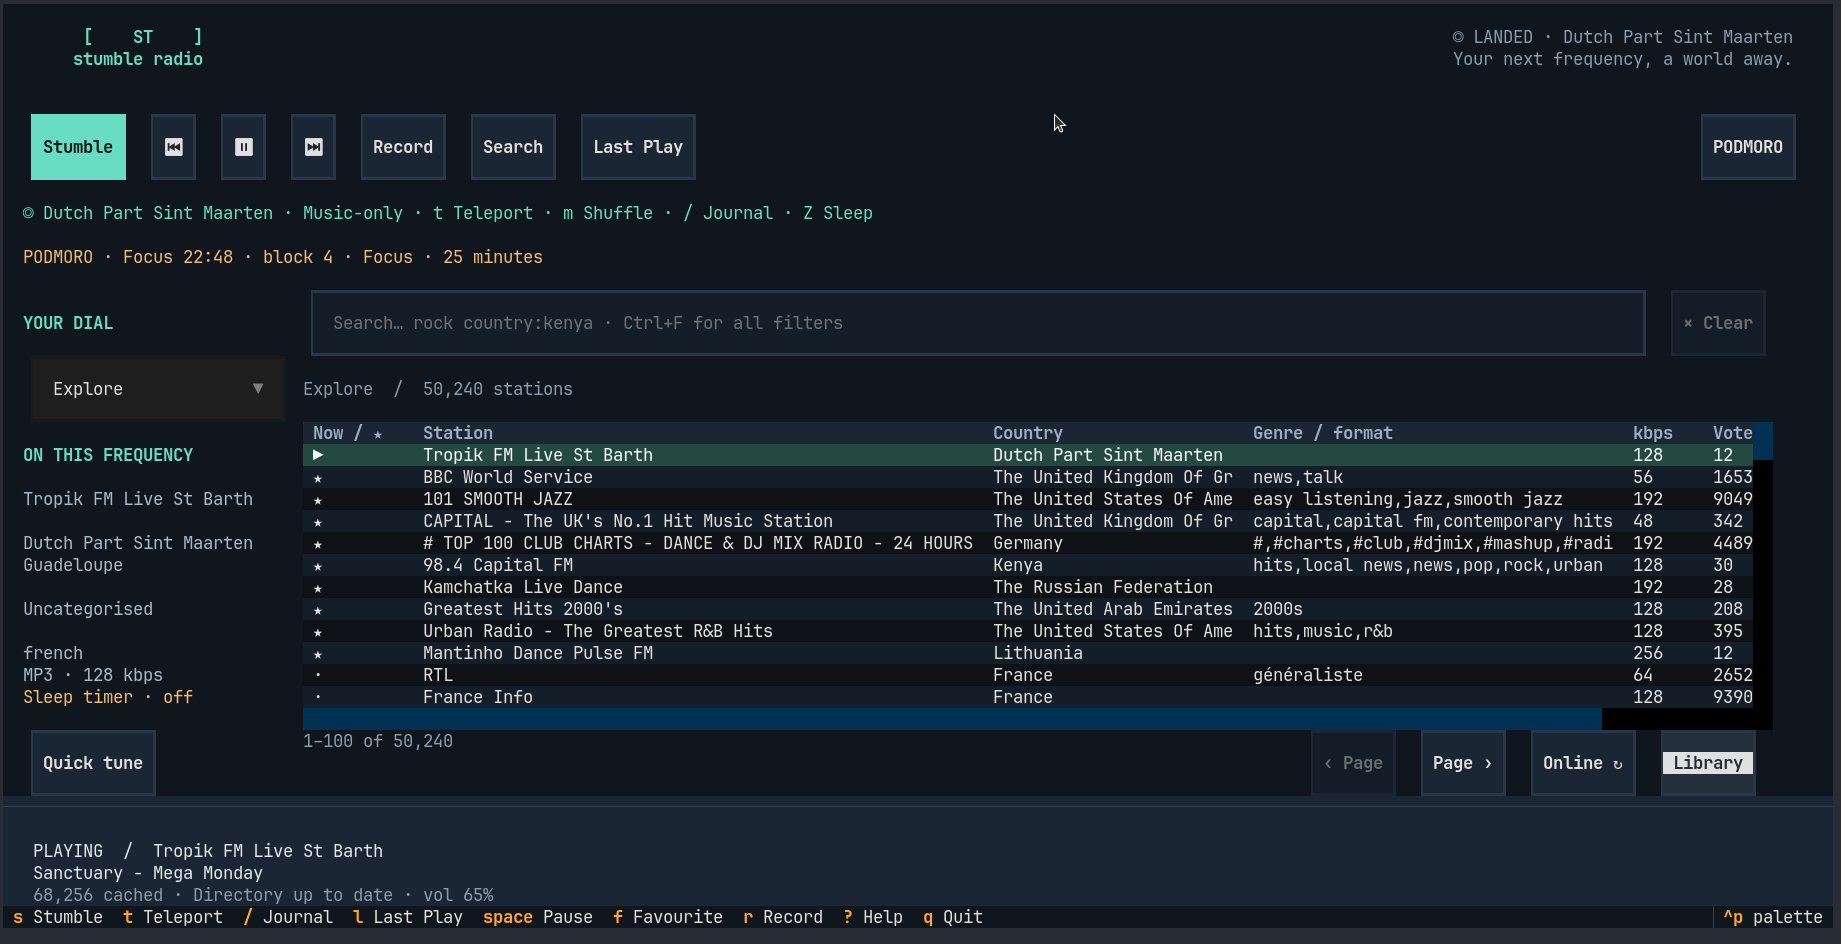
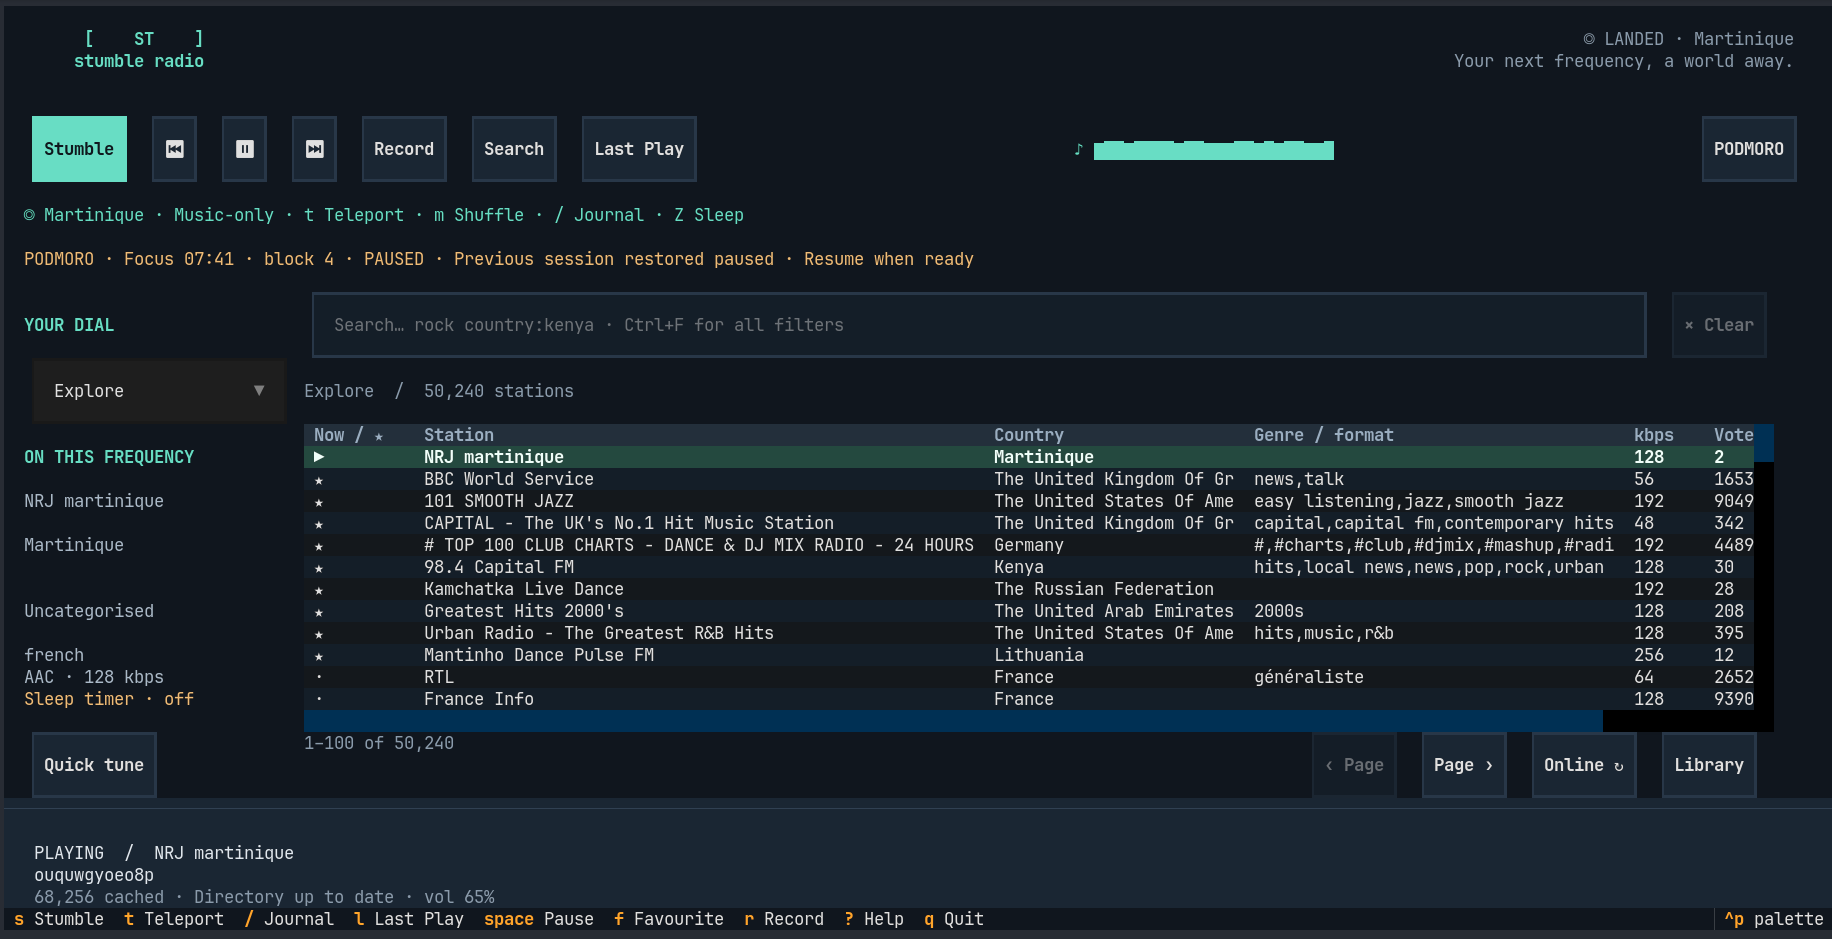
feat(app): add real-time audio level meter to transport bar
Display a visual audio meter using Unicode bars in the transport area. The meter samples RMS levels from the player at 10Hz and renders a scrolling waveform visualization. Hidden on narrow screens or when playback is inactive.

diff --git a/src/stumble_radio/app.py b/src/stumble_radio/app.py
@@ -129,6 +129,7 @@ class StumbleRadio(App):
         self.fade_volume = None
         self.listening_lock = asyncio.Lock()
         self.signal_silent = False
+        self.audio_levels: list[float] = []
         self.user_paused = False
         self.query_error = ""
         self.track_metadata = None
@@ -173,7 +174,7 @@ class StumbleRadio(App):
                     tooltip="Search songs and artists heard (l / Ctrl+L)",
                 )
             with HorizontalGroup(id="transport-extra"):
-                yield Static("", classes="transport-spacer", markup=False)
+                yield Static("", id="audio-meter", classes="transport-spacer", markup=False)
                 yield Button(
                     "PODMORO", id="podmoro", tooltip="Focus scheduler and voice reminders (Ctrl+O)"
                 )
@@ -253,6 +254,7 @@ class StumbleRadio(App):
         self.pomodoro.tick(time.monotonic(), datetime.now().astimezone())
         self.update_pomodoro_line()
         self.set_interval(1, self.tick)
+        self.set_interval(0.1, self.sample_audio_meter)
         self.set_interval(3600, self.prune_track_history)
         self.consume_player_events()
         if not self.offline:
@@ -1414,6 +1416,7 @@ class StumbleRadio(App):
     async def tick(self) -> None:
         if not self.is_running:
             return
+        self.update_audio_meter()
         self.account_listening()
         now = time.monotonic()
         if now - self.last_checkpoint >= 5:
@@ -1489,6 +1492,44 @@ class StumbleRadio(App):
         ):
             await self.persist_pomodoro()
         self.update_status()
+
+    def update_audio_meter(self) -> None:
+        meter = self.query_one("#audio-meter", Static)
+        if self.size.width < 95 or not self.current or self.play_state != "PLAYING":
+            meter.update("")
+            return
+        bars = "▁▂▃▄▅▆▇█"
+        sample_count = max(0, min(24, meter.size.width - 2))
+        graph = (
+            "".join(
+                bars[min(7, int(level * 8))] for level in self.audio_levels[-sample_count:]
+            )
+            if sample_count
+            else ""
+        )
+        meter.update("♪ " + graph)
+
+    @work(group="audio-meter", exclusive=True)
+    async def sample_audio_meter(self) -> None:
+        if self.size.width < 95 or not self.current or self.play_state != "PLAYING":
+            self.audio_levels.clear()
+            self.update_audio_meter()
+            return
+        station_id = self.current.stationuuid
+        try:
+            rms = await self.player.audio_level()
+        except PlayerError:
+            return
+        if (
+            rms is None
+            or not self.current
+            or self.current.stationuuid != station_id
+            or self.play_state != "PLAYING"
+        ):
+            return
+        self.audio_levels.append(max(0.0, min(1.0, (rms + 60) / 60)))
+        del self.audio_levels[:-24]
+        self.update_audio_meter()
 
     async def on_unmount(self) -> None:
         self.playback_wanted = self.automatic = False

diff --git a/src/stumble_radio/player.py b/src/stumble_radio/player.py
@@ -161,13 +161,16 @@ class Player:
 
     async def health(self) -> tuple[float | None, float | None]:
         position = await self.command("get_property", "time-pos")
+        return position, await self.audio_level()
+
+    async def audio_level(self) -> float | None:
         try:
             metadata = await self.command("get_property", "af-metadata/stumble_meter")
             level = (metadata or {}).get("lavfi.astats.Overall.RMS_level")
             rms = float(level) if level is not None else None
         except (PlayerError, ValueError, TypeError):
             rms = None
-        return position, rms
+        return rms
 
     async def stop(self) -> Path | None:
         saved = await self.stop_recording()
